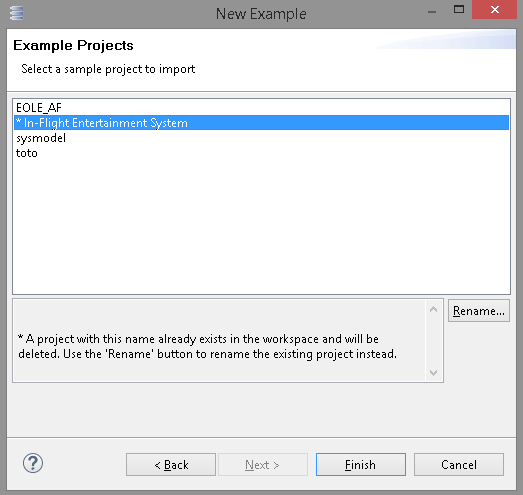
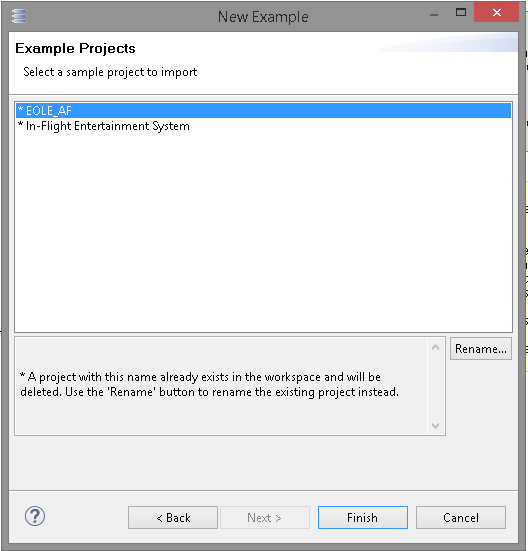
[2140] Add sample project
Reword documentation

Changed region(s): [[0.0, 0.0, 1.0, 1.0]]

diff --git a/doc/plugins/org.polarsys.capella.ui.doc/html/03. First steps with Capella/3.8. How to import Capella Project Example.html b/doc/plugins/org.polarsys.capella.ui.doc/html/03. First steps with Capella/3.8. How to import Capella Project Example.html
@@ -25,7 +25,7 @@
 		<p>
 			<br/>
 		</p>
-		<h1 id="How_to_create_a_new_Capella_Project_Example.3F">How to create a new Capella Project Example?</h1>
+		<h1 id="How_to_add_an_existing_Capella_project_as_an_example.3F">How to add an existing Capella project as an example?</h1>
 		<ol>
 			<li>The sample project must be in the form of: 
 				<b>toto/toto.zip</b>
